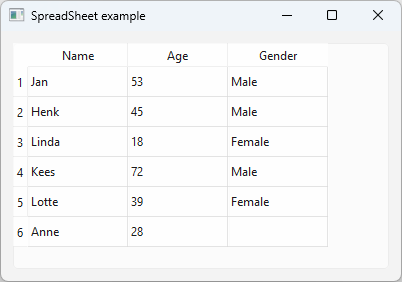
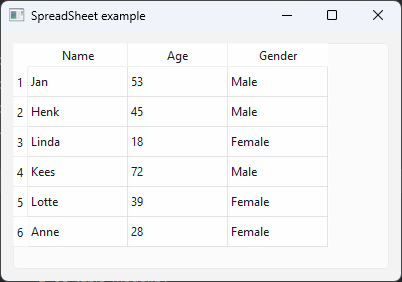
Fix table example last cell

Changed region(s): [[0.0, 0.0, 1.0, 1.0], [0.5672, 0.7943, 0.6866, 0.8511]]

diff --git a/19_tables/01_table_spreadsheet.py b/19_tables/01_table_spreadsheet.py
@@ -66,7 +66,7 @@ class Window(QWidget):
 
         self.table.setItem(5, 0, QTableWidgetItem("Anne"))
         self.table.setItem(5, 1, QTableWidgetItem("28"))
-        self.table.setItem(4, 2, QTableWidgetItem("Female"))
+        self.table.setItem(5, 2, QTableWidgetItem("Female"))
 
         # Add table to layout, add layout to widget
         self.vBox = QVBoxLayout()
